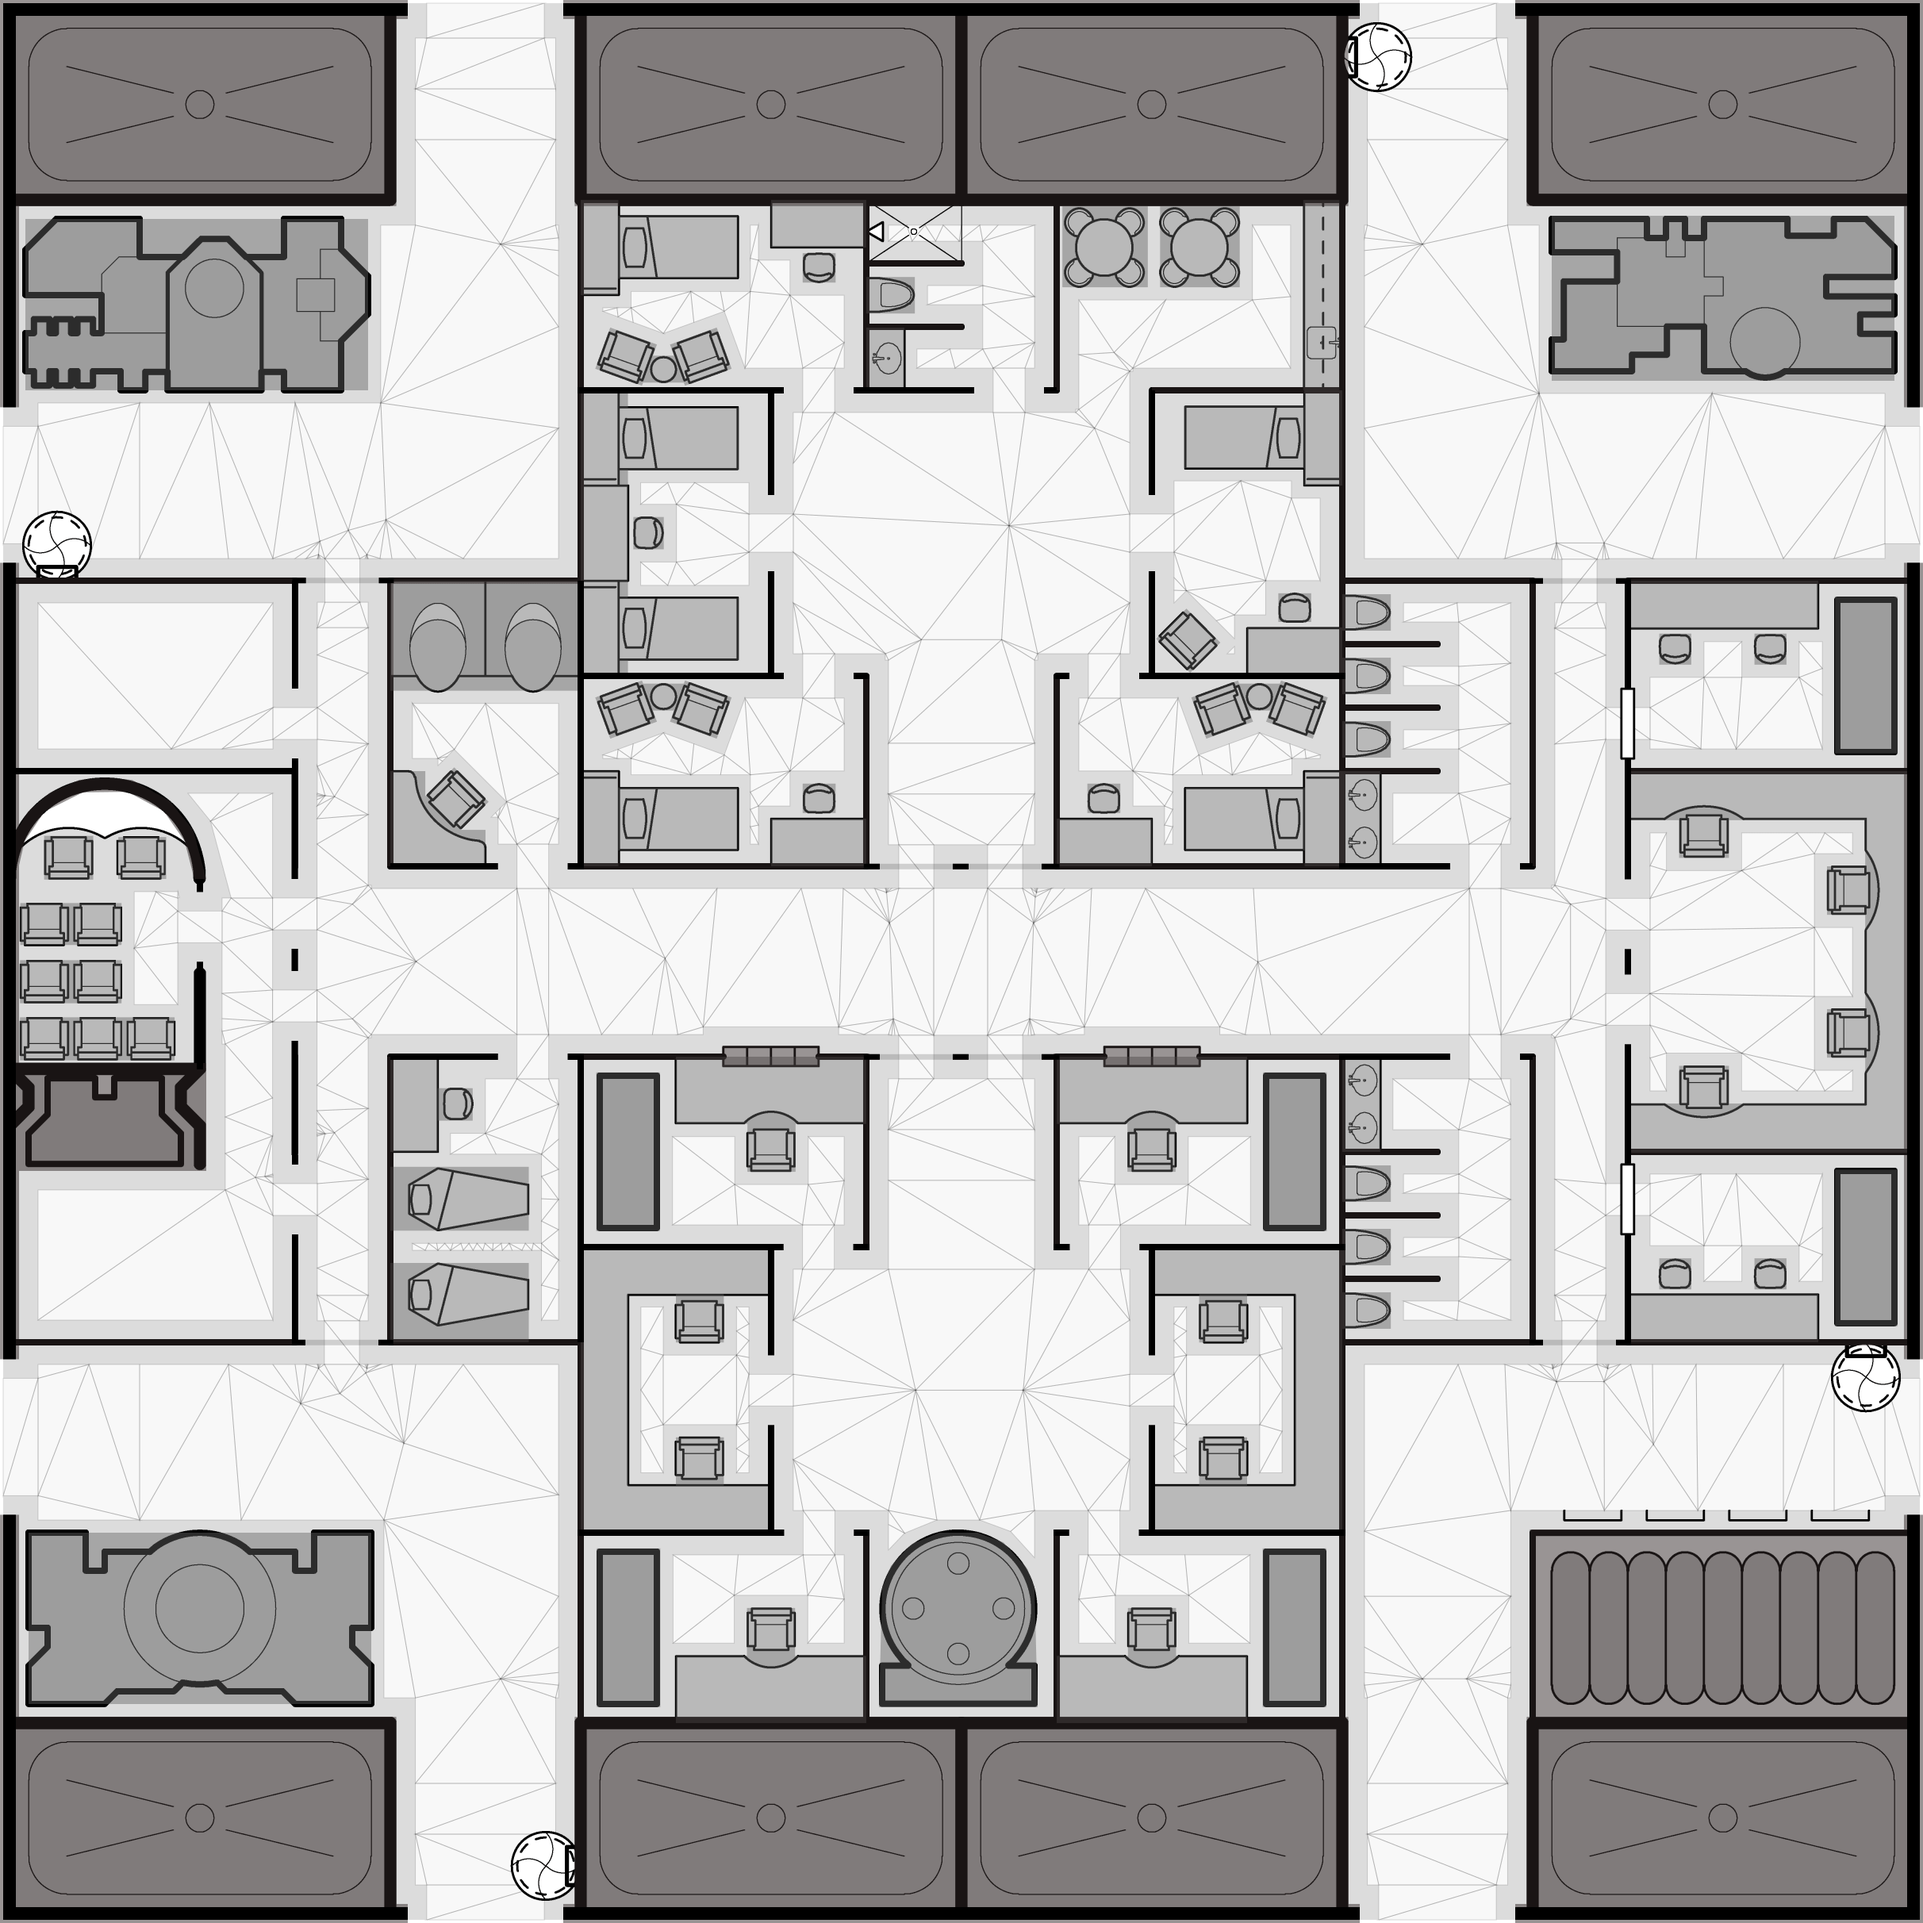
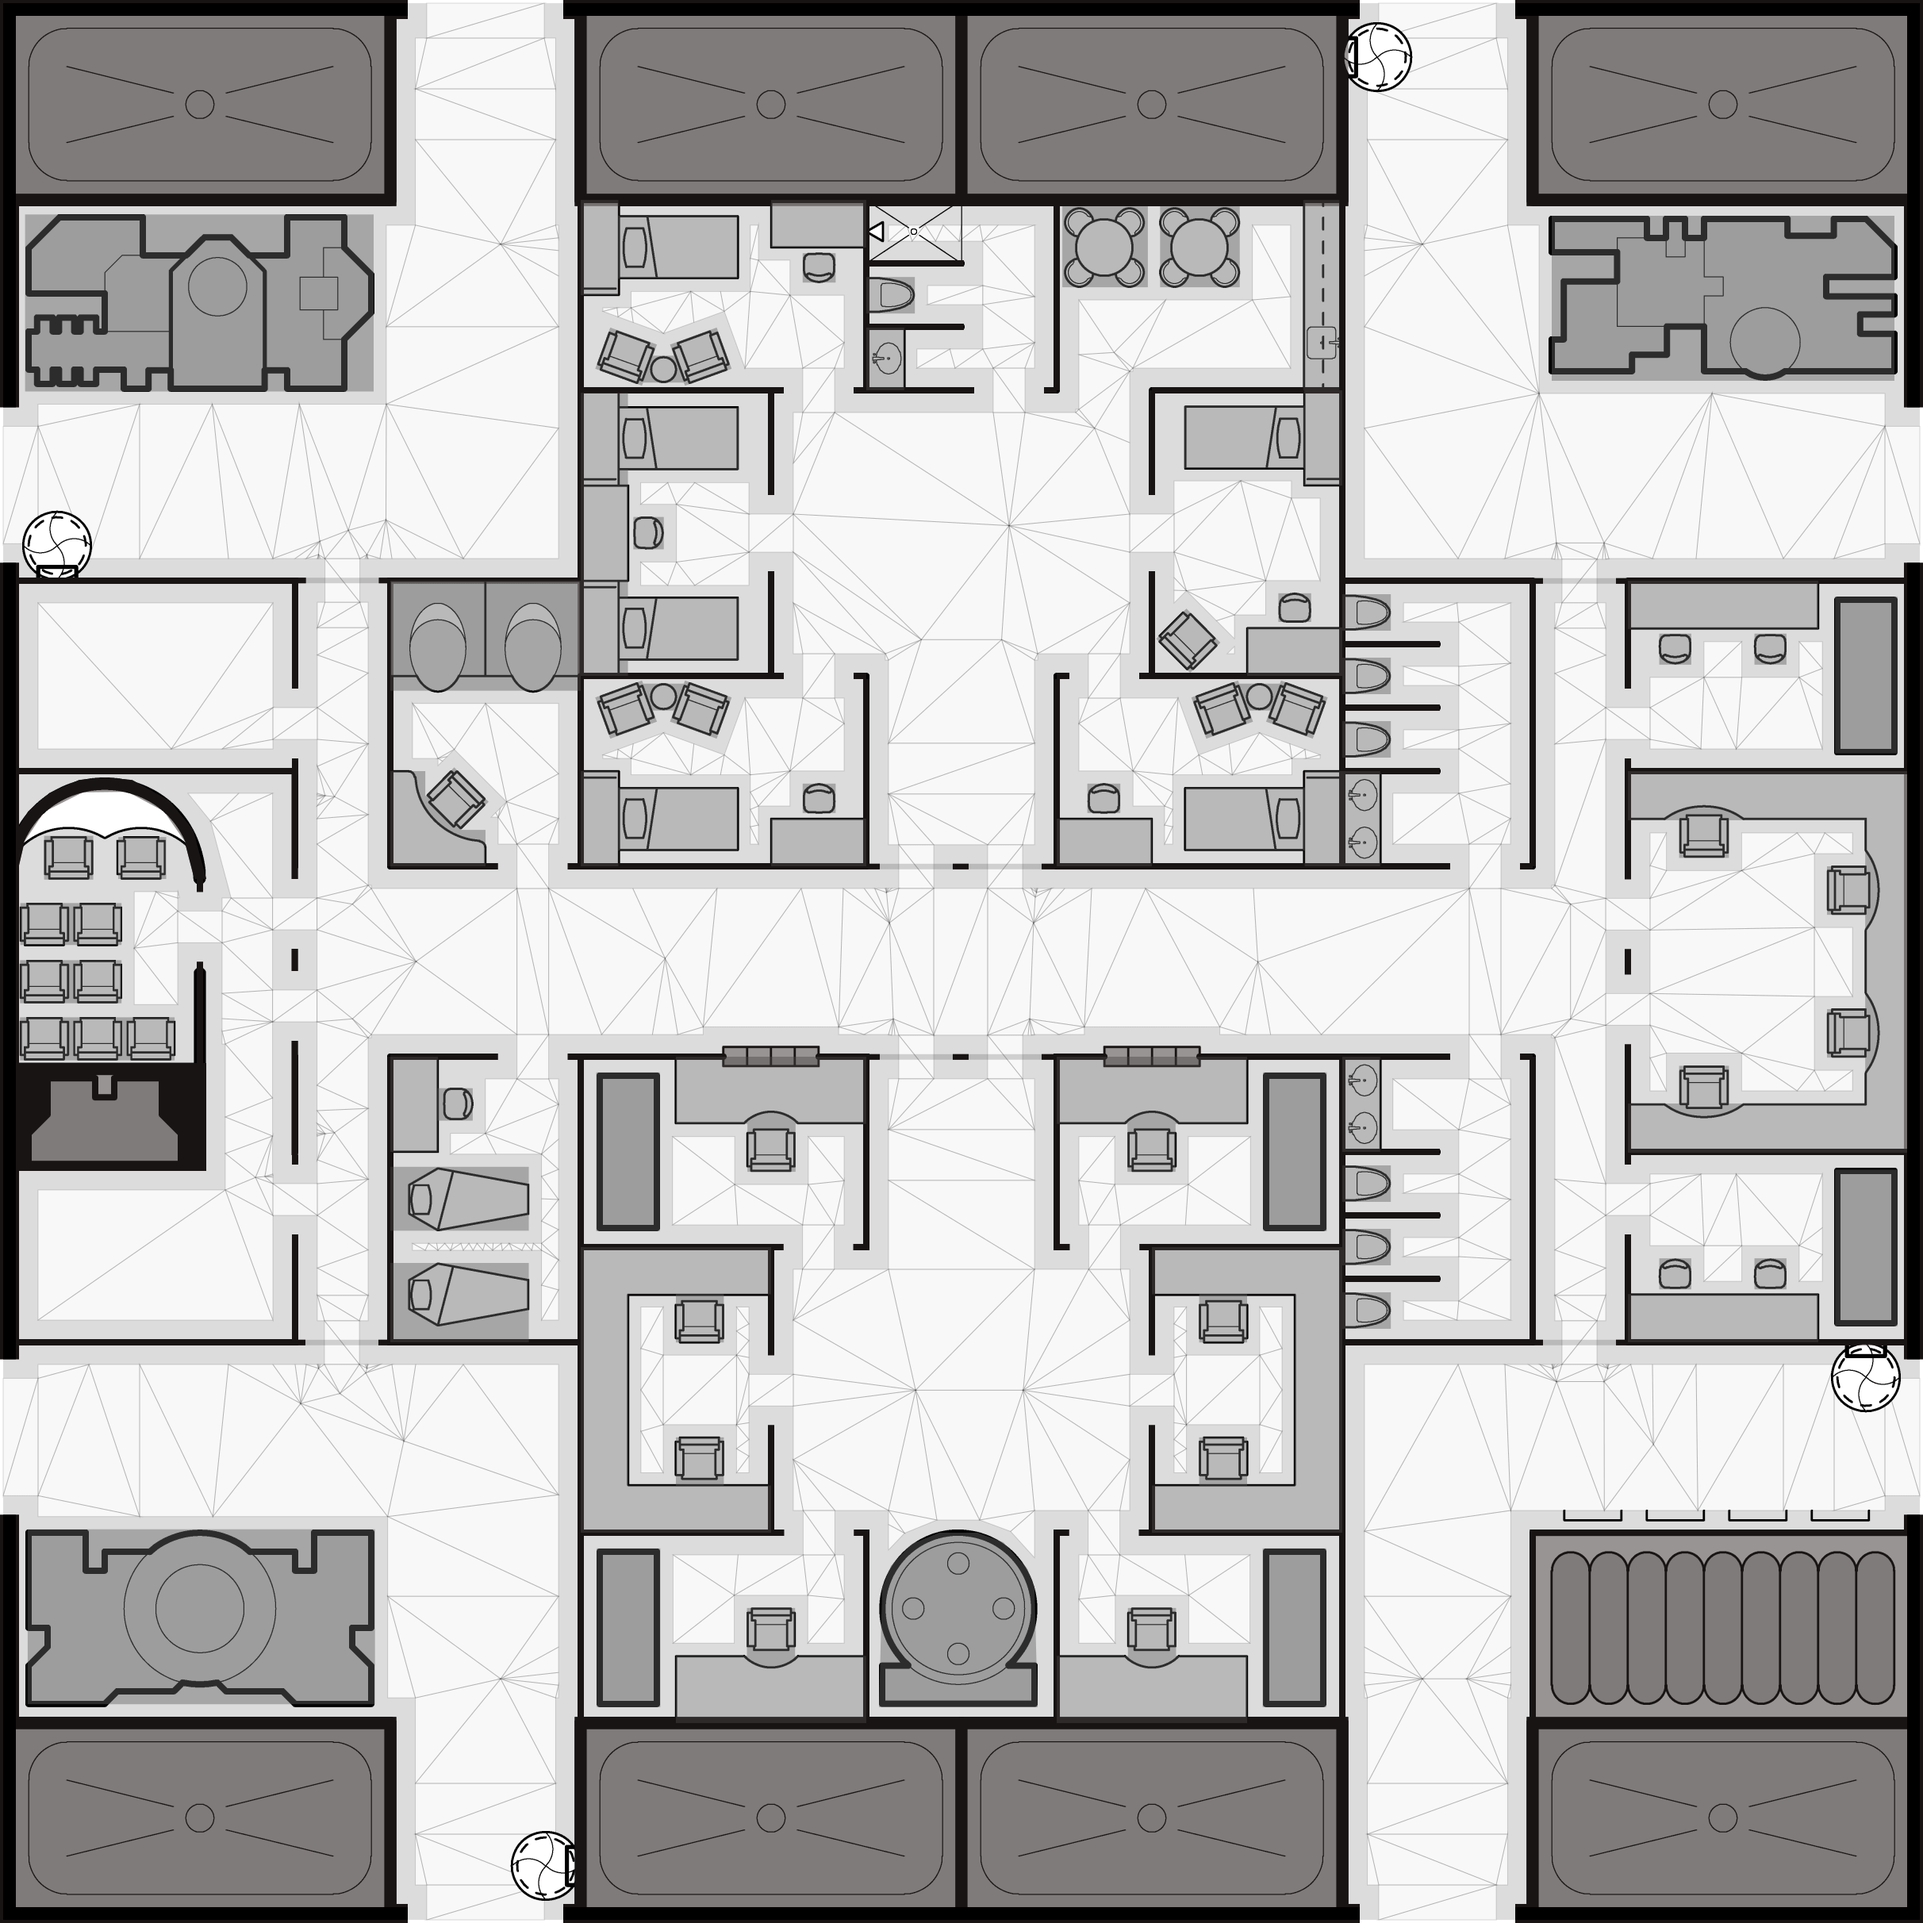
fix symbols obscured by walls; remove door from symbol PNG

diff --git a/projects/geomorph/render-geomorph.js b/projects/geomorph/render-geomorph.js
@@ -53,9 +53,6 @@ export async function renderGeomorph(
     ctxt.strokeStyle = navStroke;
     ctxt.lineWidth = 0.5;
     drawTriangulation(ctxt, layout.navDecomp)
-    // Original approach
-    // const decomps = layout.navPoly.flatMap(x => x.qualityTriangulate());
-    // decomps.forEach(decomp => drawTriangulation(ctxt, decomp));
   }
 
   ctxt.lineJoin = 'round';
@@ -87,6 +84,13 @@ export async function renderGeomorph(
   });
   //#endregion
 
+  // Draw walls without drawing over windows
+  // We do this before PNGs, otherwise e.g. fuel will be obscured 
+  const { singles, obstacles, walls } = layout.groups;
+  const wallsSansWindows = Poly.cutOut(singlesToPolys(singles, 'window'), walls);
+  ctxt.fillStyle = 'rgba(0, 0, 0, 1)';
+  fillPolygon(ctxt, wallsSansWindows);
+
   //#region symbol PNGs
   const innerItems = layout.items.slice(1);
   for (const { pngHref, pngRect, transformArray } of innerItems) {
@@ -100,18 +104,16 @@ export async function renderGeomorph(
   //#endregion
 
   //#region overlay
-  const { singles, obstacles, walls } = layout.groups;
-
   ctxt.fillStyle = obsColor;
   obsBounds && fillPolygon(ctxt, obstacles);
   ctxt.fillStyle = wallColor;
   wallBounds && fillPolygon(ctxt, walls);
   ctxt.fillStyle = 'rgba(0, 0, 0, 1)';
   fillPolygon(ctxt, layout.hullTop);
-  // Draw walls without drawing them over windows
-  const wallsSansWindows = Poly.cutOut(singlesToPolys(singles, 'window'), walls);
-  ctxt.fillStyle = 'rgba(0, 0, 0, 1)';
-  fillPolygon(ctxt, wallsSansWindows);
+  // // Draw walls without drawing them over windows
+  // const wallsSansWindows = Poly.cutOut(singlesToPolys(singles, 'window'), walls);
+  // ctxt.fillStyle = 'rgba(0, 0, 0, 1)';
+  // fillPolygon(ctxt, wallsSansWindows);
 
   if (doors) {
     const doors = singlesToPolys(singles, 'door');

diff --git a/projects/example/GeomorphEdit.jsx b/projects/example/GeomorphEdit.jsx
@@ -28,8 +28,8 @@ export default function GeomorphDemo() {
   return (
     <div className={rootCss}>
       <PanZoom initViewBox={defaults.initViewBox} gridBounds={defaults.gridBounds} maxZoom={6}>
-        {/* <Geomorph def={layoutDefs["g-101--multipurpose"]} /> */}
-        <Geomorph def={layoutDefs["g-102--research-deck"]} />
+        <Geomorph def={layoutDefs["g-101--multipurpose"]} />
+        {/* <Geomorph def={layoutDefs["g-102--research-deck"]} /> */}
         {/* <Geomorph def={layoutDefs["g-301--bridge"]} /> */}
         {/* <Geomorph def={layoutDefs["g-302--xboat-repair-bay"]} /> */}
         {/* <Geomorph def={layoutDefs["g-301--bridge"]} transform="matrix(1,0,0,1,-1200,0)" /> */}
